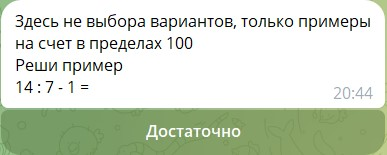
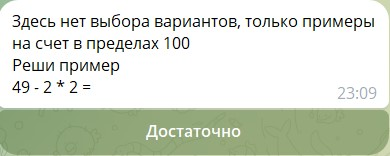
Версия первая

diff --git a/bot/dialogs/count_dialog.py b/bot/dialogs/count_dialog.py
@@ -121,7 +121,7 @@ count_dialog = Dialog(
         Case(
             texts={
                 1: Const('Правильно! Молодец!\nРешишь еще один?'),
-                2: Const('Здесь не выбора вариантов, только примеры\n'
+                2: Const('Здесь нет выбора вариантов, только примеры\n'
                          'на счет в пределах 100\nРеши пример'),
                 3: Const('Реши пример'),
             },
